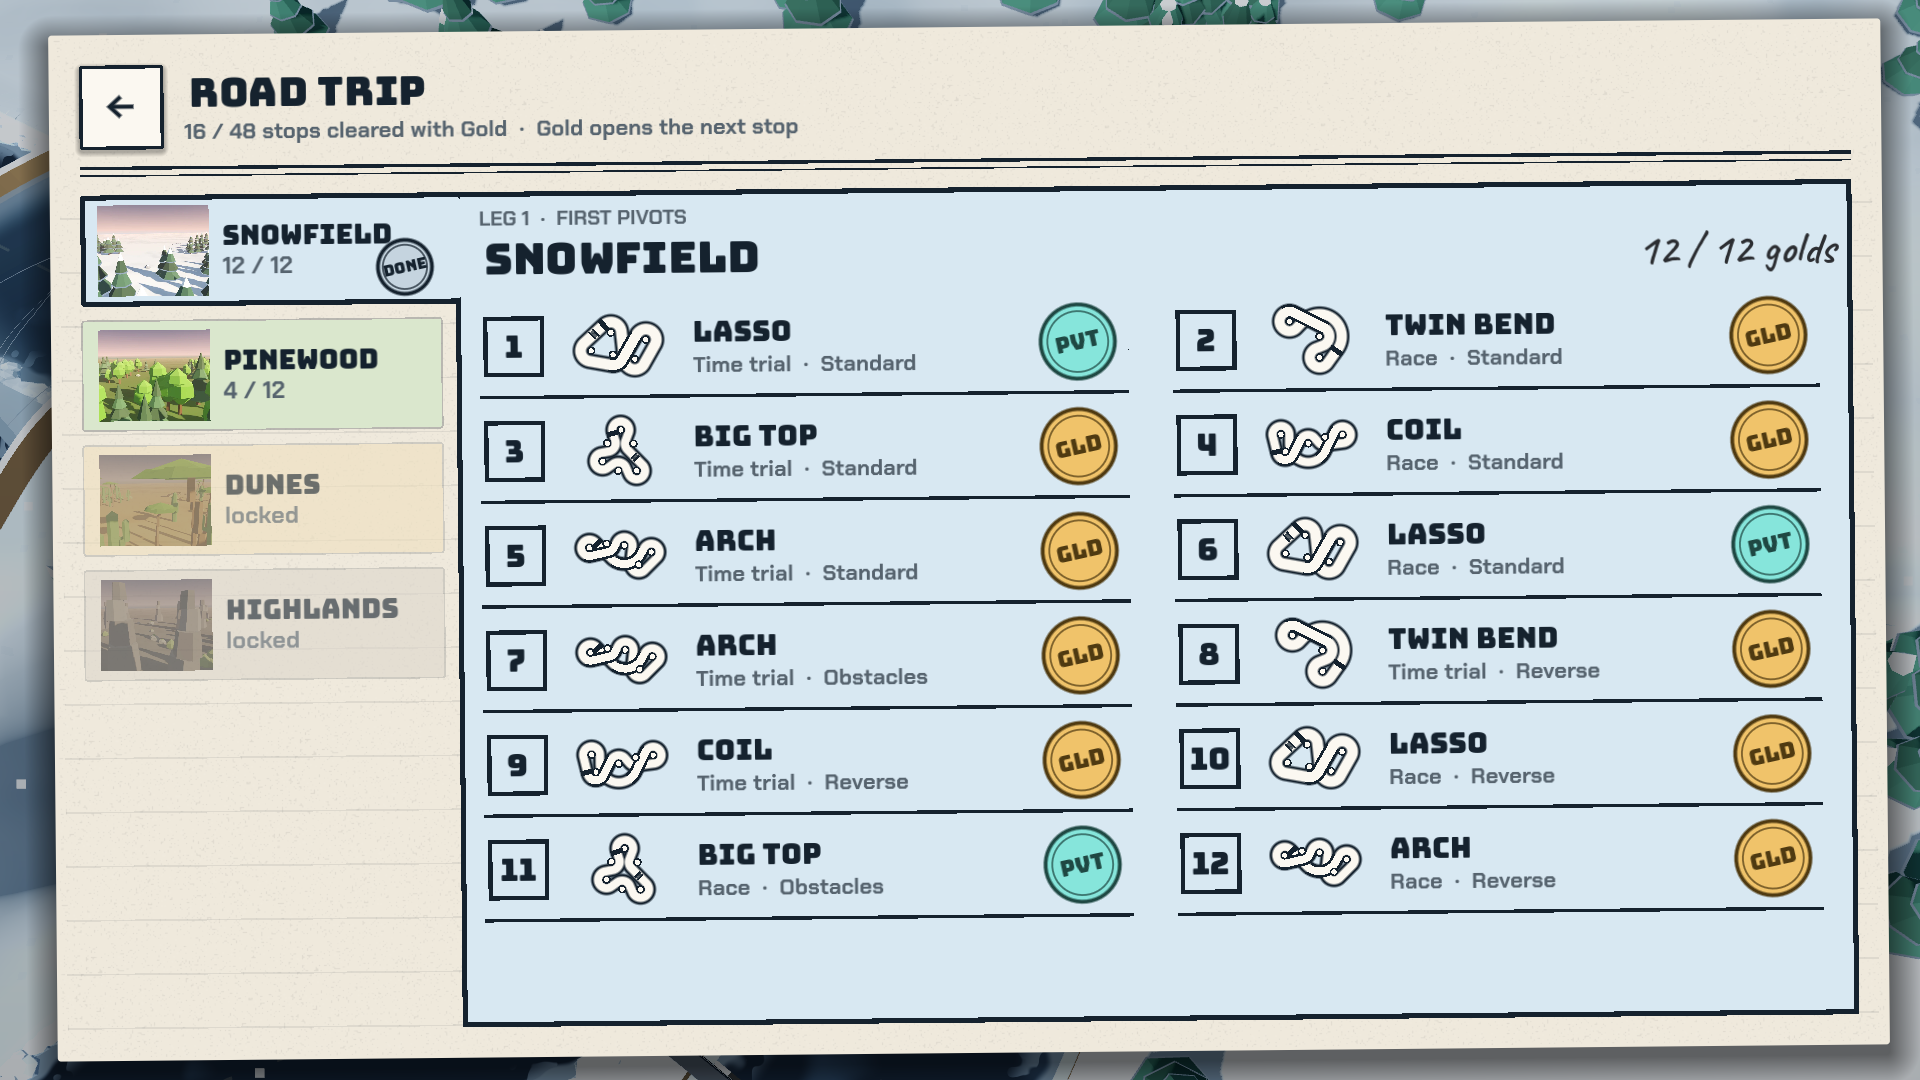
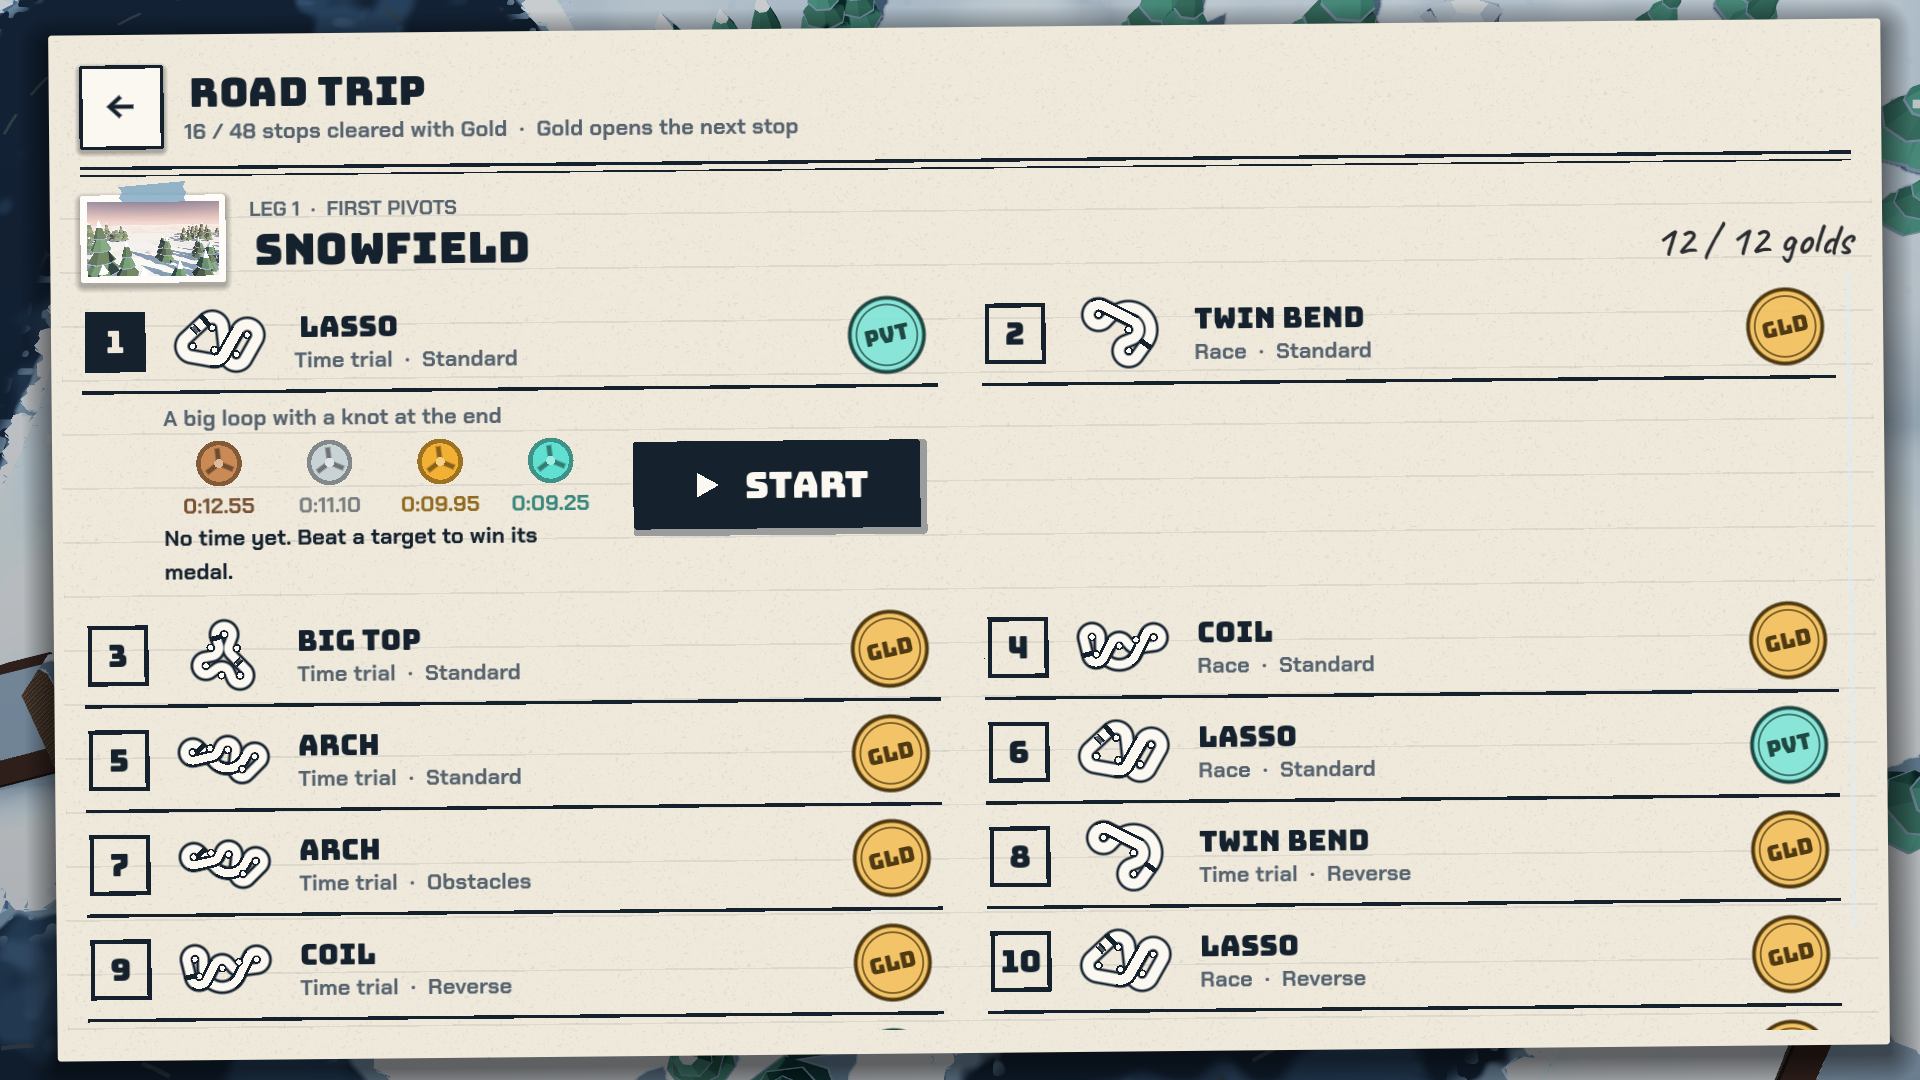
Road Trip: no world-colour background, no world tabs, stops open in the list (#95)
* Road Trip: no full world-colour background behind the stops

Guillaume didn't like the whole page of world tint. The stops sit on the
paper again; the colour touches stay (tinted tabs, world photo and tape,
world-coloured marker under the name, medals in their metal). Test and
AGENTS.md rule updated.

Claude-Session: https://claude.ai/code/session_01VxP4fqdAPuwWpkdYV4h3gM

* Store shot 06: Road Trip without the world-colour background

Claude-Session: https://claude.ai/code/session_01VxP4fqdAPuwWpkdYV4h3gM

* Road Trip: no world tabs, no separate stop page; a stop opens in the list

Guillaume: keep only the world picker and the world's stop list. The world
select is the only way to change world, and tapping a stop opens it in place
with its note, medal targets, what Gold does and Start. The stand-alone event
page stays for Special Stages, Two for the Road and the Daily Detour.

Claude-Session: https://claude.ai/code/session_01VxP4fqdAPuwWpkdYV4h3gM

* Store shot 06: Road Trip stops with the open stop in place

Claude-Session: https://claude.ai/code/session_01VxP4fqdAPuwWpkdYV4h3gM

* swipe_test: give the first Road Trip stop Gold so a second stop is open on a fresh save

Claude-Session: https://claude.ai/code/session_01VxP4fqdAPuwWpkdYV4h3gM

---------

diff --git a/tether-rally/AGENTS.md b/tether-rally/AGENTS.md
@@ -168,10 +168,17 @@ Only redo the ones where the change is visible, and put before/after images in t
   has a medal stays playable. Covered by `tests/economy_test.gd`.
 - World colour on paper (Guillaume, 2026-11-14: the Road Trip page "looked sad"): colour on the
   menus comes from content, never from a UI accent. A world's own colours are `Menu.WORLD_TINT`
-  (pale page/tab) and `Menu.WORLD_INK` (its marker band and its photo tape, `Menu.world_tape()`);
-  medals are stamped filled in their metal (`Menu.medal_stamp()`, `Stamp.fill`). The Road Trip
-  events lie on a page in the open world's tint, joined to its tab like a notebook divider.
+  (pale tab) and `Menu.WORLD_INK` (its marker band and its photo tape, `Menu.world_tape()`);
+  medals are stamped filled in their metal (`Menu.medal_stamp()`, `Stamp.fill`). Colour stays in
+  touches: no full background of world colour behind a page's content (Guillaume tried it on the
+  Road Trip events and didn't like it, 2026-11-14).
   Landscape on a phone (~800 logical px wide) gets one column of stops: two cut the names.
+- Road Trip screens (Guillaume, 2026-11-14): the world select (taped photos) is the only way to change
+  world; a world's stops page has no world tabs. There is no separate page per stop: tapping a stop
+  opens it in place in the list (its note, medal targets, what Gold does, and Start; `_stop_details`),
+  and the stop shown open is `ev` (the one picked or raced last, else the next to play). The stand-alone
+  event page (`show_event`) is only for Special Stages, Two for the Road and the Daily Detour.
+  Covered by `tests/swipe_test.gd`.
 - Time attack tracks (Guillaume, 2026-11-13): a track is open in Time attack once a campaign event on
   it is unlocked (`Campaign.attack_tracks()`); shut ones are greyed with a padlock and skipped by the
   swipe. Tracks raced before the rule were kept as `[attack]` flags (`attack_gate`). So every track
